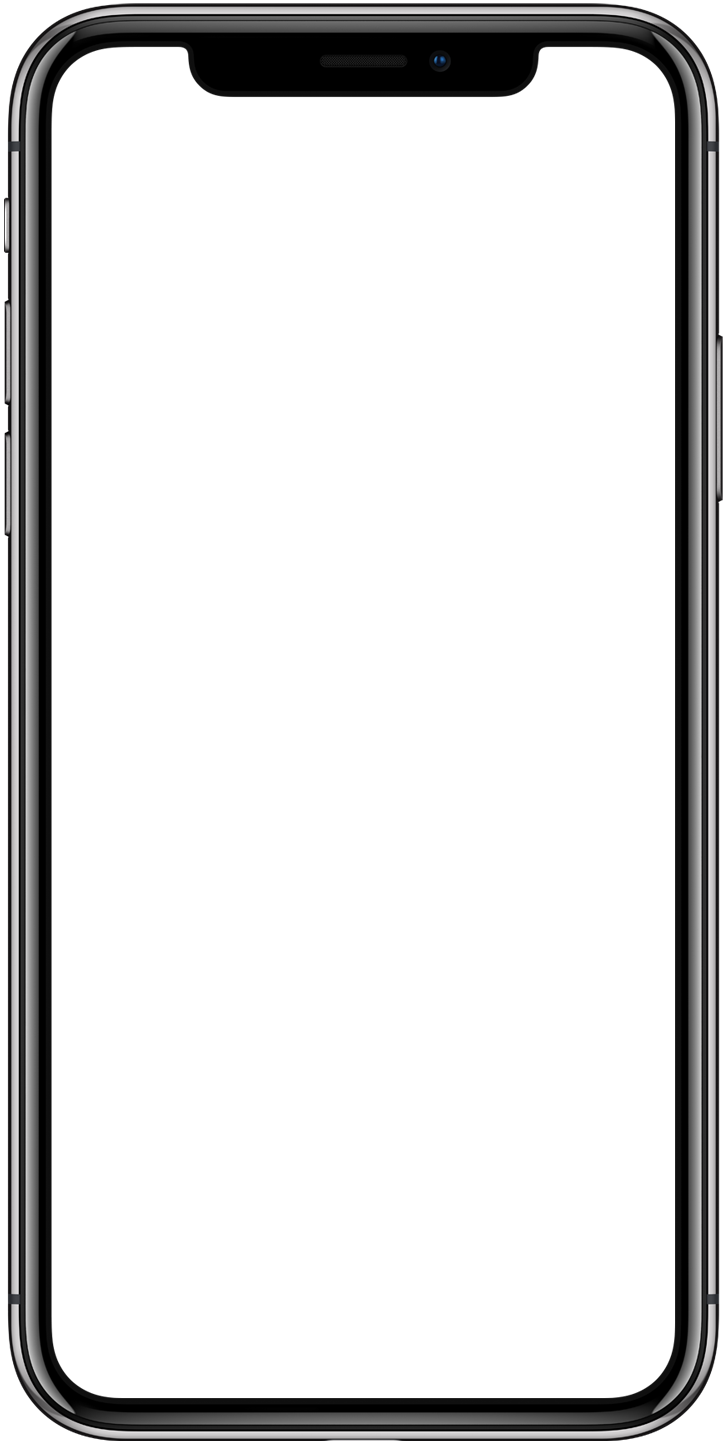
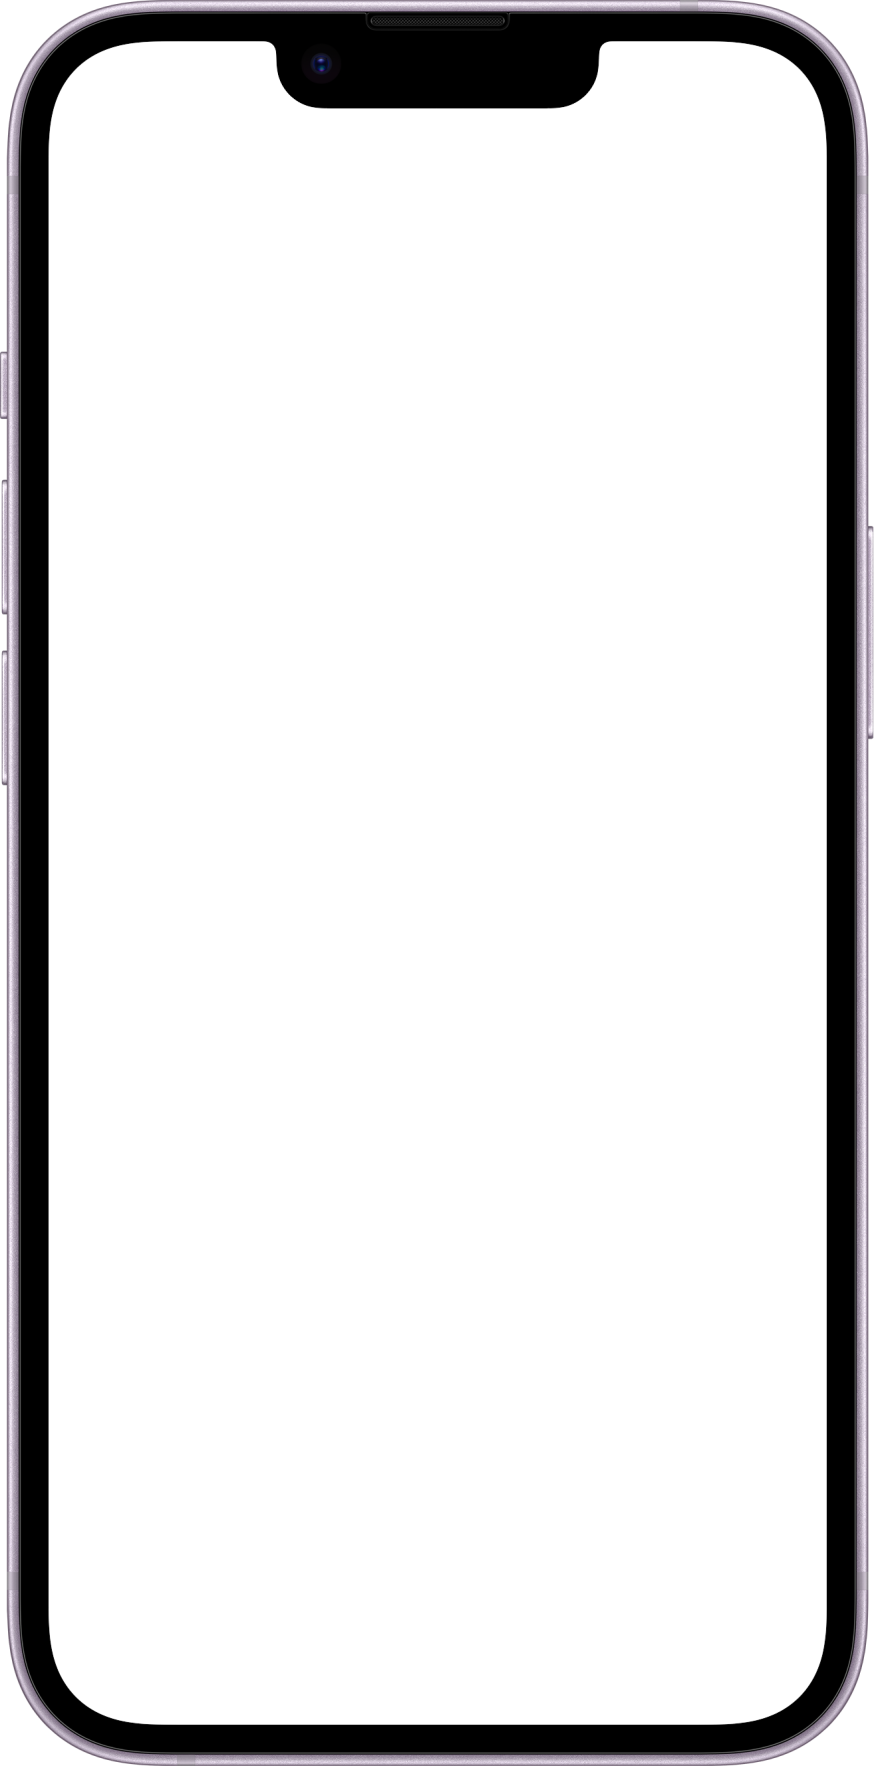
chore: Privacy policy

Changed region(s): [[0.0, 0.0, 1.0, 1.0]]

diff --git a/privacy.html b/privacy.html
@@ -1,0 +1,125 @@
+<!DOCTYPE html>
+<html lang="en">
+<head>
+    <meta charset="UTF-8">
+    <meta name="viewport" content="width=device-width, initial-scale=1.0">
+    <title>Privacy Policy</title>
+    <style>
+        /* Add your CSS styling here */
+        body {
+            font-family: Arial, sans-serif;
+            margin: 20px;
+        }
+        .faq {
+            margin-bottom: 40px;
+        }
+    </style>
+</head>
+<body>
+<h1>Privacy Policy</h1>
+
+<p>Your privacy is important to us. We respect your privacy and comply with applicable laws and regulations regarding any personal information we may collect about you, including via our app, Namecare.</p>
+<p>When you use Namecare, you accept and understand that we collect, process, use and store your information as described in this Privacy Policy. If you do not agree with this Privacy Policy, you must not use Namecare.</p>
+<p>This Privacy Policy is effective as of 9 August 2023.</p>
+<p>Last updated: 9 August 2023.</p>
+
+<h2>Information We Collect</h2>
+<p>Information we collect falls into one of two categories: “voluntarily provided” information and “automatically collected” information.</p>
+<p>“Voluntarily provided” information refers to any information you knowingly and actively provide us when using Namecare. </p>
+<p>“Automatically collected” information refers to any information automatically sent by your device in the course of accessing Namecare and its associated services.</p>
+
+<h3>Personal Information</h3>
+<p>We may ask for personal information. For example, when you register an account you will be asked to provide your email and a password. You may also provide us with your personal information when you contact us or information you choose to provide to allow us with to assist you.
+</p>
+
+<h3>Legitimate Reasons for Processing Your Personal Information</h3>
+<p>We only collect and use your personal information when we have a legitimate reason for doing so. In which instance, we only collect personal information that is reasonably necessary to provide our services to you. We try to collect very limited personal data via Namecare, in most cases necessary for the app to function.</p>
+
+<h3>Collection and Use of Information</h3>
+<div>
+    <p>We may collect personal information from you when you do any of the following:</p>
+    - Register for an account<br>
+    - Indicate domain names<br>
+    - Contact us via email, social media, or on any similar technologies<br>
+    - When you mention us on social media.<br>
+
+    <p>We may collect, hold, use, and disclose information for the following purposes, and personal information will not be further processed in a manner that is incompatible with these purposes:</p>
+    - to provide you with Namecare core features and services.<br>
+    - to enable you to access and use Namecare.<br>
+
+</div>
+
+<h3>Security of Your Personal Information</h3>
+<p>When we collect and process personal information, and while we retain this information, we will protect it within commercially acceptable means to prevent loss and theft, as well as unauthorized access, disclosure, copying, use, or modification.</p>
+<p>Although we will do our best to protect the personal information you provide to us, we advise that no method of electronic transmission or storage is 100% secure, and no one can guarantee absolute data security.</p>
+<p>You are responsible for selecting any password and its overall security strength, ensuring the security of your own information within the bounds of our services. For example, ensuring any passwords associated with accessing your personal information and accounts are secure and confidential.</p>
+
+<h3>How Long We Keep Your Personal Information</h3>
+<p>We keep your personal information only for as long as we need to. This time period may depend on what we are using your information for, in accordance with this Privacy Policy. For example, if you have provided us with personal information as part of creating an account with us, we may retain this information for the duration your account exists on our system. If your personal information is no longer required for this purpose, we will delete it or make it anonymous by removing all details that identify you.</p>
+<p>However, if necessary, we may retain your personal information for our compliance with a legal, accounting, or reporting obligation.</p>
+
+<h2>Disclosure of Personal Information to Third Parties</h2>
+<div>
+    <p>We may disclose personal information to:</p>
+    - third-party service providers for the purpose of enabling them to provide their services, including (without limitation) IT service providers, data storage, hosting and server providers, maintenance or problem-solving providers, professional advisors, and payment systems operators.<br>
+    - our employees, contractors, and/or related entities.<br>
+    - courts, tribunals, regulatory authorities, and law enforcement officers, as required by law, in connection with any actual or prospective legal proceedings, or in order to establish, exercise, or defend our legal rights.<br>
+</div>
+
+<h2>International Transfers of Personal Information</h2>
+<p>The personal information we collect is stored where we or our third-party providers maintain facilities.</p>
+<p>The countries to which we store, process, or transfer your personal information may not have the same data protection laws as the country in which you initially provided the information. If we transfer your personal information to third parties in other countries: (i) we will perform those transfers in accordance with the requirements of applicable law; and (ii) we will protect the transferred personal information in accordance with this Privacy Policy. </p>
+
+<h2>Your Rights and Controlling Your Personal Information</h2>
+<p><b>Your choice:</b> By providing personal information to us, you understand we will collect, hold, use, and disclose your personal information in accordance with this Privacy Policy. You do not have to provide personal information to us, however, if you do not, it may affect your use of Namecare.</p>
+<p><b>Information from third parties:</b> If we receive personal information about you from a third party, we will protect it as set out in this Privacy Policy. If you are a third party providing personal information about somebody else, you represent and warrant that you have such person’s consent to provide the personal information to us.</p>
+<p><b>Access:</b> You may request details of the personal information that we hold about you. </p>
+<p><b>Correction:</b> If you believe that any information we hold about you is inaccurate, out of date, incomplete, irrelevant, or misleading, please contact us using the details provided in this Privacy Policy. We will take reasonable steps to correct any information found to be inaccurate, incomplete, misleading, or out of date.</p>
+<p><b>Non-discrimination:</b> We will not discriminate against you for exercising any of your rights over your personal information. Unless your personal information is required to provide you with a particular service or offer (for example serving particular content to your device), we will not deny you services and/or charge you different prices or rates for services, including through granting discounts or other benefits, or imposing penalties, or provide you with a different level or quality of services.</p>
+
+<h2>Business Transfers</h2>
+<p>If we or our assets are acquired, or in the unlikely event that we go out of business or enter bankruptcy, we would include data, including your personal information, among the assets transferred to any parties who acquire us. You acknowledge that such transfers may occur, and that any parties who acquire us may, to the extent permitted by applicable law, continue to use your personal information according to this policy, which they will be required to assume as it is the basis for any ownership or use rights we have over such information.</p>
+
+<h2>Changes to This Policy</h2>
+<p>At our discretion, we may change our Privacy Policy to reflect updates to our business processes, current acceptable practices, or legislative or regulatory changes. If we decide to change this Privacy Policy, we will post the changes here and on our website (if applicable).</p>
+<p>Please check this page frequently to see any updates or changes to this Privacy Policy.</p>
+
+<h2>Additional Disclosures for General Data Protection Regulation (GDPR) Compliance (EU)</h2>
+
+<h3>Data Controller / Data Processor</h3>
+<p>The GDPR distinguishes between organizations that process personal information for their own purposes (known as “data controllers”) and organizations that process personal information on behalf of other organizations (known as “data processors”). We are a Data Controller with respect to the personal information you provide to us. </p>
+
+<h3>Legal Bases for Processing Your Personal Information</h3>
+<p>We will only collect and use your personal information when we have a legal right to do so. In which case, we will collect and use your personal information lawfully, fairly, and in a transparent manner.</p>
+<p>Our lawful bases depend on the services you use and how you use them. This means we only collect and use your information on the following grounds:</p>
+
+<h4>Consent From You</h4>
+<p>Where you give us consent to collect and use your personal information for a specific purpose. You may withdraw your consent at any time using the facilities we provide; however this will not affect any use of your information that has already taken place. When you contact us, you may consent to your name and email address being used so we can respond to your enquiry. While you may request that we delete your contact details at any time, we cannot recall any email we have already sent. If you have any further enquiries about how to withdraw your consent, please feel free to enquire using the details provided in the Contact Us section of this Privacy Policy.</p>
+
+<h4>Performance of a Contract or Transaction</h4>
+<p>Where you have entered into a contract or transaction with us, or in order to take preparatory steps prior to our entering into a contract or transaction with you. For example, we may need technical information about your device in order to provide the essential features of Namecare.</p>
+
+<h4>Our Legitimate Interests</h4>
+<p>Where we assess it is necessary for our legitimate interests, such as for us to provide, operate, improve and communicate our services. For example, we may collect technical information about your device in order to improve. We consider our legitimate interests to include research and development, understanding our audience, measures taken to operate our services efficiently, marketing analysis, and measures taken to protect our legal rights and interests. </p>
+
+<h4>Compliance with Law</h4>
+<p>In some cases, we may have a legal obligation to use or keep your personal information. Such cases may include (but are not limited to) court orders, criminal investigations, government requests, and regulatory obligations.</p>
+<p>We will ensure that any transfer of personal information will be protected by appropriate safeguards, including by using standard data protection clauses or other legally accepted means. </p>
+
+<h3>Your Rights and Controlling Your Personal Information</h3>
+<p><b>Data portability:</b> You may have the right to request a copy of the personal information we hold about you. You may also have the right to request that we transfer this personal information to a third party.</p>
+<p><b>Deletion:</b> You may have a right to request that we delete the personal information we hold about you at any time, and we will take reasonable steps to delete your personal information from our current records. If you ask us to delete your personal information, we will let you know how the deletion affects your use of Namecare. If you terminate or delete your account, we will delete your personal information within 90 days of the deletion of your account. We reserve the right to retain some of your information where there are valid grounds for us to do so under data protection laws, including for the purposes of the defence of legal claims, respect freedom of expression, or where we have an overriding legitimate interest to do so.</p>
+<p><b>Rectification:</b> This enables you to have any incomplete or inaccurate data we hold about you corrected.</p>
+<p><b>Restrict:</b> You have the right to request that we restrict the processing of your personal information if, for example, (i) you are concerned about the accuracy of your personal information; (ii) you believe your personal information has been unlawfully processed; (iii) you need us to maintain the personal information solely for the purpose of a legal claim; or (iv) we are in the process of considering your objection in relation to processing on the basis of legitimate interests.</p>
+<p><b>Objecting to processing:</b> You have the right to object to processing of your personal information that is based on our legitimate interests or public interest. If this is done, we must provide compelling legitimate grounds for the processing which overrides your interests, rights, and freedoms, in order to proceed with the processing of your personal information.</p>
+<p><b>Withdrawing consent:</b> Where you have provided your consent to our processing of your personal data, you can withdraw your consent at any time. If you do withdraw consent, it will not affect the lawfulness of what we have done with your personal data before you withdrew consent.</p>
+<p><b>Lodging a complaint at a supervisory authority:</b> We will do our best to resolve any complaints you may have. However, if you feel we have not resolved your complaint, you have a right to lodge a complaint with a supervisory authority.</p>
+
+
+<h2>Contact Us</h2>
+<div class="faq">
+    <p class="question">For any further questions or assistance, please reach out to our support team at <a href="mailto:support@namecare.app">support@namecare.app</a>.</p>
+</div>
+
+</body>
+</html>

diff --git a/index.html b/index.html
@@ -5,7 +5,7 @@
         <meta name="viewport" content="width=device-width, initial-scale=1, shrink-to-fit=no" />
         <meta name="description" content="" />
         <meta name="author" content="" />
-        <title>New Age - Start Bootstrap Theme</title>
+        <title>Namecare</title>
         <link rel="icon" type="image/x-icon" href="assets/favicon.ico" />
         <!-- Bootstrap icons-->
         <link href="https://cdn.jsdelivr.net/npm/bootstrap-icons@1.5.0/font/bootstrap-icons.css" rel="stylesheet" />
@@ -78,7 +78,7 @@
                                 <rect x="-32.54" y="78.39" width="305.92" height="84.05" rx="42.03" transform="translate(-49.88 120.42) rotate(-45)"></rect></svg
                             ><svg class="shape-2 d-none d-sm-block" viewBox="0 0 100 100" xmlns="http://www.w3.org/2000/svg"><circle cx="50" cy="50" r="50"></circle></svg>
                             <div class="device-wrapper">
-                                <div class="device" data-device="iPhoneX" data-orientation="portrait" data-color="black">
+                                <div class="device" data-device="iPhone14" data-orientation="portrait" data-color="black">
                                     <div class="screen bg-black">
                                         <!-- PUT CONTENTS HERE:-->
                                         <!-- * * This can be a video, image, or just about anything else.-->
@@ -163,13 +163,14 @@
                                 <rect x="-32.54" y="78.39" width="305.92" height="84.05" rx="42.03" transform="translate(-49.88 120.42) rotate(-45)"></rect></svg
                             ><svg class="shape-2 d-none d-sm-block" viewBox="0 0 100 100" xmlns="http://www.w3.org/2000/svg"><circle cx="50" cy="50" r="50"></circle></svg>
                             <div class="device-wrapper">
-                                <div class="device" data-device="iPhoneX" data-orientation="portrait" data-color="black">
+                                <div class="device" data-device="iPhone14" data-orientation="portrait" data-color="black">
                                     <div class="screen bg-black">
                                         <!-- PUT CONTENTS HERE:-->
                                         <!-- * * This can be a video, image, or just about anything else.-->
                                         <!-- * * Set the max width of your media to 100% and the height to-->
                                         <!-- * * 100% like the demo example below.-->
-                                        <video muted="muted" autoplay="" loop="" style="max-width: 100%; height: 100%"><source src="assets/img/demo-screen.mp4" type="video/mp4" /></video>
+                                        <img style="max-width: 100%; height: 100%" src="assets/img/screenshot.png"></img>
+<!--                                        <video muted="muted" autoplay="" loop="" style="max-width: 100%; height: 100%"><source src="assets/img/demo-screen.mp4" type="video/mp4" /></video>-->
                                     </div>
                                 </div>
                             </div>

diff --git a/faq.html b/faq.html
@@ -34,7 +34,7 @@
 <div class="faq">
     <div class="question">How does Namecare work?</div>
     <div class="answer">
-        Namecare allows you to add products to your list along with their expiration dates. You can also optionally include other information. The application offers an autocomplete feature to assist you in filling out the expiration date and other fields, making the process quick and accurate. Once added, Namecare will send you push notifications at multiple intervals before the expiration date, giving you ample time to take appropriate action.
+        Namecare allows you to add domains to your list along with their expiration dates. You can also optionally include other information. The application offers an autocomplete feature to assist you in filling out the expiration date and other fields, making the process quick and accurate. Once added, Namecare will send you push notifications at multiple intervals before the expiration date, giving you ample time to take appropriate action.
     </div>
 </div>
 

diff --git a/css/styles.css b/css/styles.css
@@ -10943,6 +10943,30 @@ section {
   height: 100%;
 }
 
+.device[data-device=iPhone14][data-orientation=portrait][data-color=black] {
+  padding-bottom: 202.059496568%;
+}
+
+.device[data-device=iPhone14][data-orientation=portrait][data-color=black] .screen {
+  top: 2.2%;
+  left: 5.6%;
+  width: 89%;
+  height: 95.6%;
+}
+
+.device[data-device=iPhone14][data-orientation=portrait][data-color=black]::after {
+  content: "";
+  background-image: url("../assets/img/portrait_black.png");
+}
+
+.device[data-device=iPhone14][data-orientation=portrait][data-color=black] .button {
+  display: none;
+  top: 0%;
+  left: 0%;
+  width: 100%;
+  height: 100%;
+}
+
 section.cta {
   position: relative;
   padding: 15rem 0;
